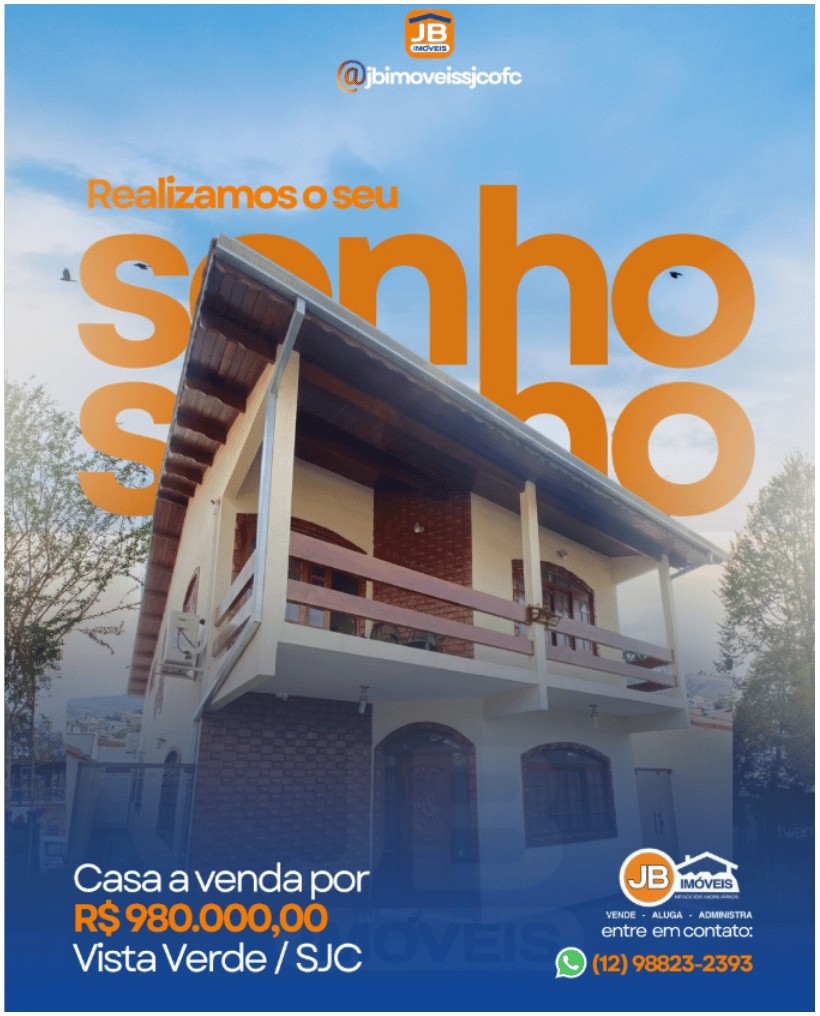
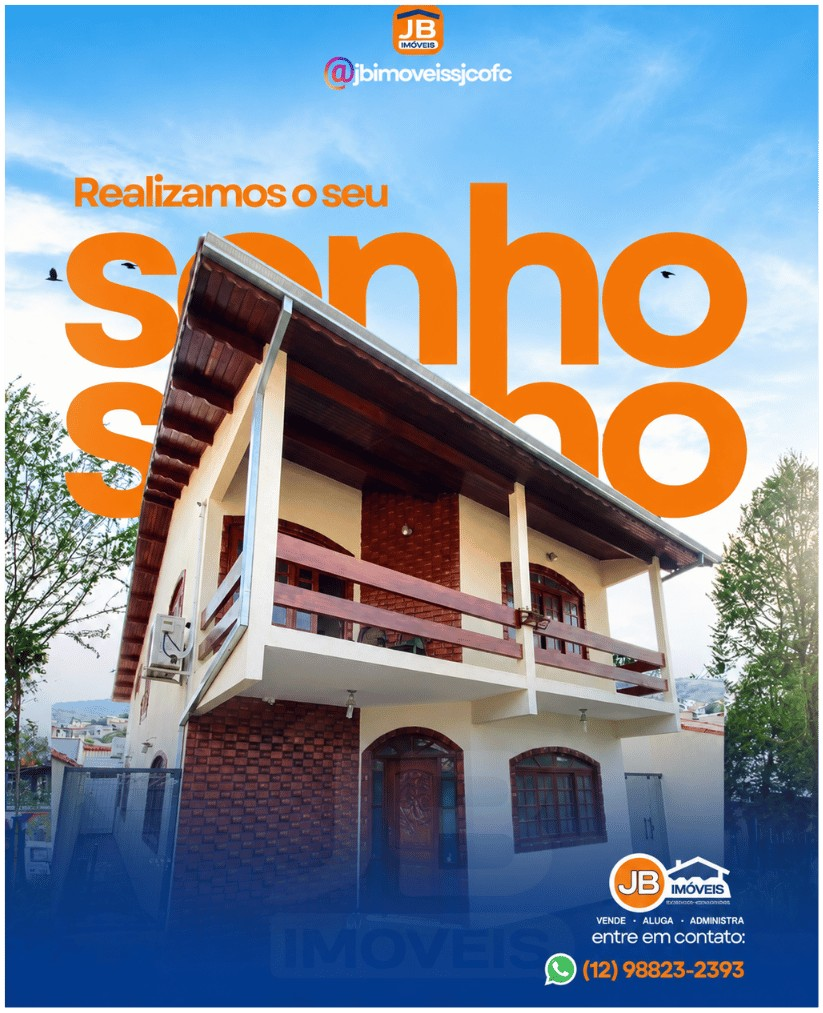
Cada categoria mostra sua própria foto, tamanho reduzido sem corte
Prédio e Casa agora têm foto própria (mostrada ao selecionar, sem
opção de fechar), Terreno aguarda foto. Painel usa object-contain
num container menor, então a imagem encolhe proporcionalmente em vez
de ser cortada. Atualiza a foto da Casa e remove o GalleryModal
(lógica incorporada direto no Categories).

diff --git a/src/components/Categories.jsx b/src/components/Categories.jsx
@@ -3,12 +3,13 @@ import { AnimatePresence, motion } from 'framer-motion'
 import iconPredio from '../assets/categories/icon-predio.png'
 import iconCasa from '../assets/categories/icon-casa.png'
 import iconTerreno from '../assets/categories/icon-terreno.png'
-import GalleryModal from './GalleryModal'
+import photoPredio from '../assets/gallery/predio-gallery-1.jpg'
+import photoCasa from '../assets/gallery/casa-gallery-1.jpg'
 
 const categories = [
-  { id: 'predio', label: 'Prédio', image: iconPredio },
-  { id: 'casa', label: 'Casa', image: iconCasa },
-  { id: 'terreno', label: 'Terreno', image: iconTerreno },
+  { id: 'predio', label: 'Prédio', image: iconPredio, photo: photoPredio },
+  { id: 'casa', label: 'Casa', image: iconCasa, photo: photoCasa },
+  { id: 'terreno', label: 'Terreno', image: iconTerreno, photo: null },
 ]
 
 const checkIcon = (
@@ -19,13 +20,7 @@ const checkIcon = (
 
 export default function Categories() {
   const [selected, setSelected] = useState('casa')
-  const [galleryOpen, setGalleryOpen] = useState(true)
-
-  function handleClick(c) {
-    const isSelected = selected === c.id
-    setSelected(isSelected ? null : c.id)
-    if (c.id === 'casa' && !isSelected) setGalleryOpen(true)
-  }
+  const active = categories.find((c) => c.id === selected)
 
   return (
     <section className="mx-auto max-w-3xl px-4 pb-4 pt-2">
@@ -35,7 +30,7 @@ export default function Categories() {
           return (
             <button
               key={c.id}
-              onClick={() => handleClick(c)}
+              onClick={() => setSelected(c.id)}
               className="flex flex-col items-center gap-2"
             >
               <motion.div
@@ -78,8 +73,26 @@ export default function Categories() {
         })}
       </div>
 
-      <AnimatePresence>
-        {galleryOpen && <GalleryModal onClose={() => setGalleryOpen(false)} />}
+      <AnimatePresence mode="wait">
+        {active?.photo && (
+          <motion.div
+            key={active.id}
+            initial={{ opacity: 0, height: 0 }}
+            animate={{ opacity: 1, height: 'auto' }}
+            exit={{ opacity: 0, height: 0 }}
+            transition={{ duration: 0.4, ease: [0.16, 1, 0.3, 1] }}
+            className="overflow-hidden"
+          >
+            <div className="relative mx-auto mt-6 max-w-xs overflow-hidden rounded-3xl border border-neutral-200 bg-white shadow-lg">
+              <img
+                src={active.photo}
+                alt={active.label}
+                className="w-full select-none object-contain"
+                draggable={false}
+              />
+            </div>
+          </motion.div>
+        )}
       </AnimatePresence>
     </section>
   )
